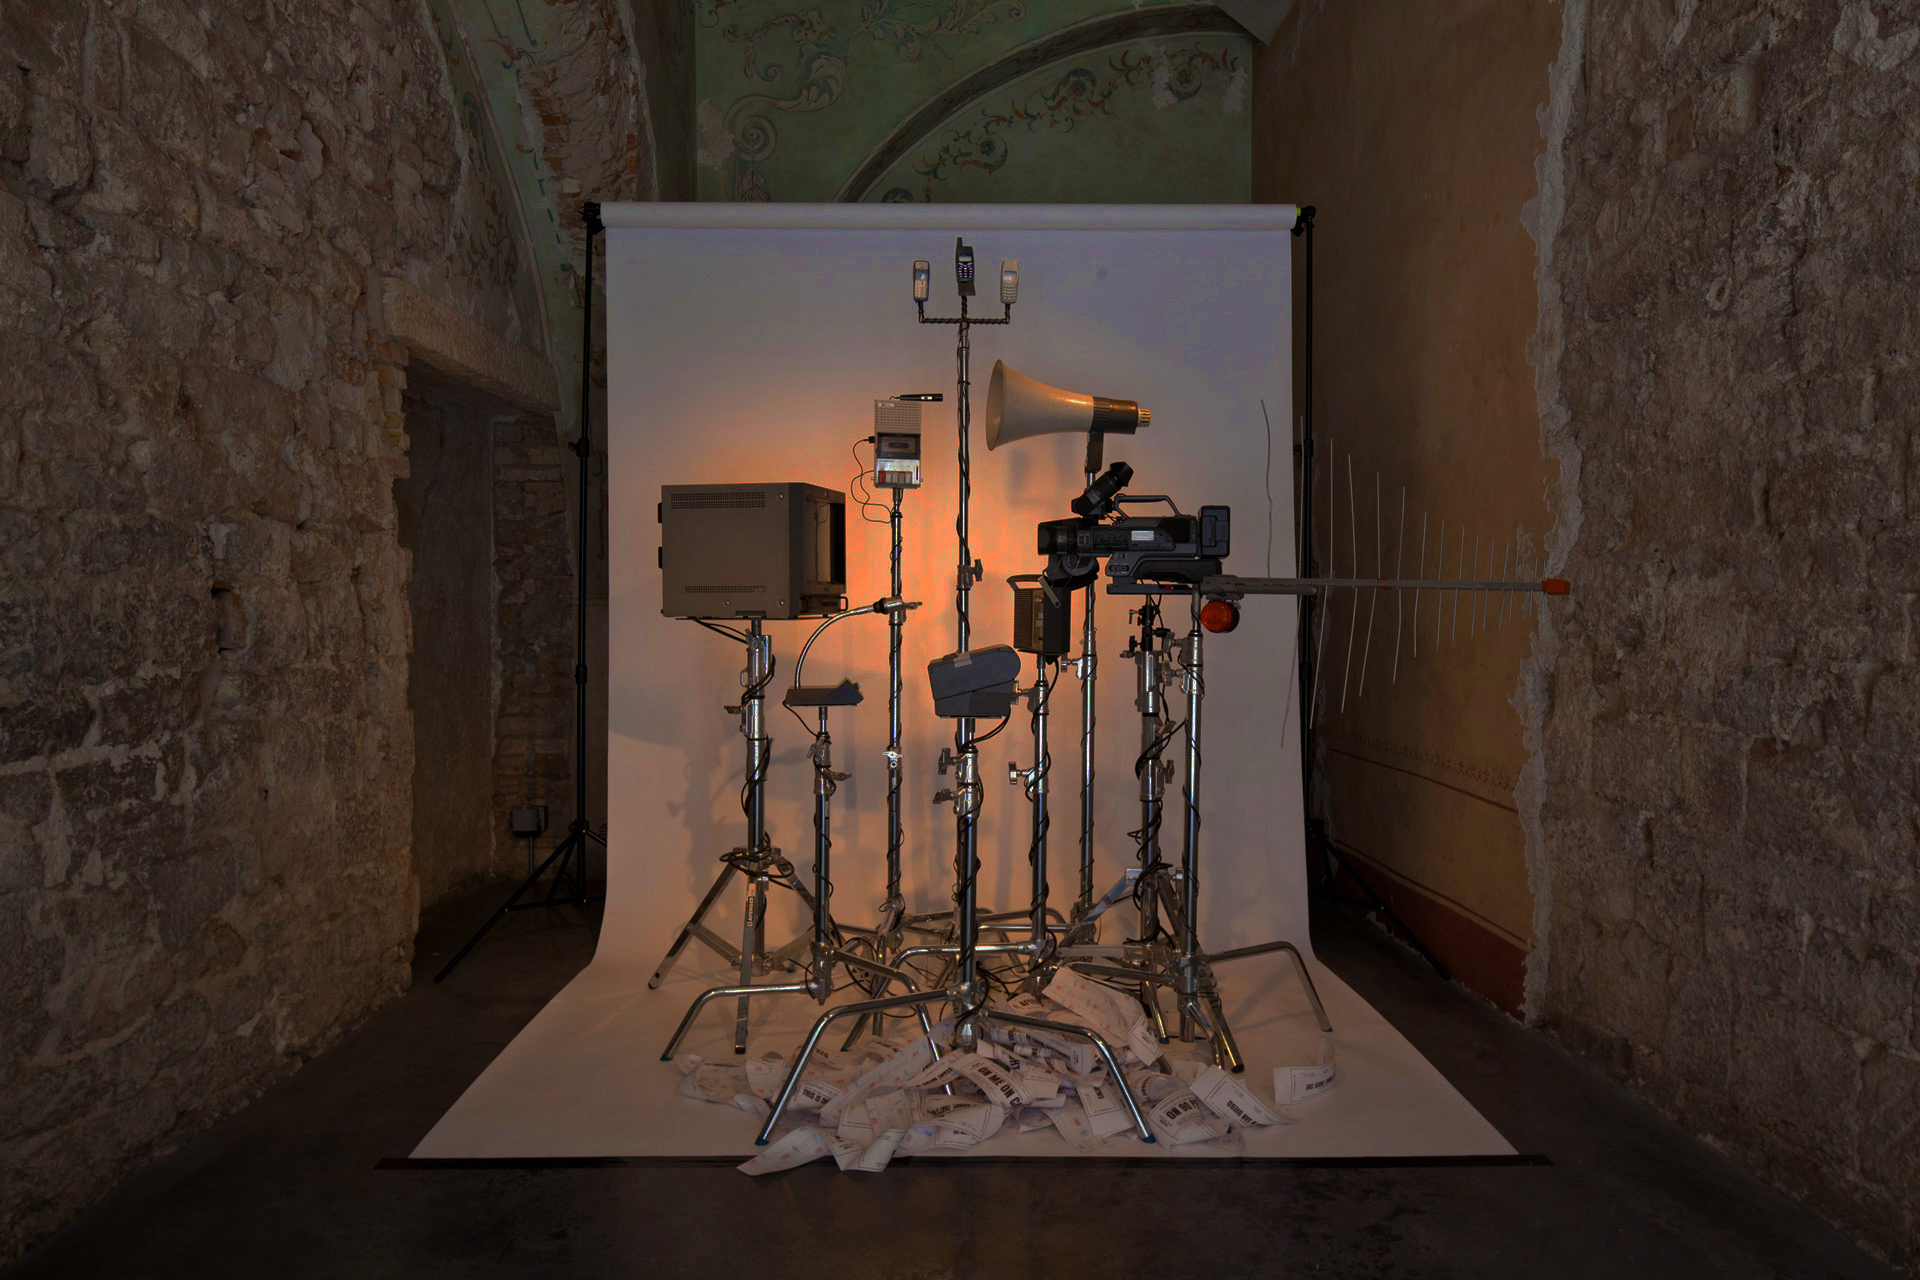
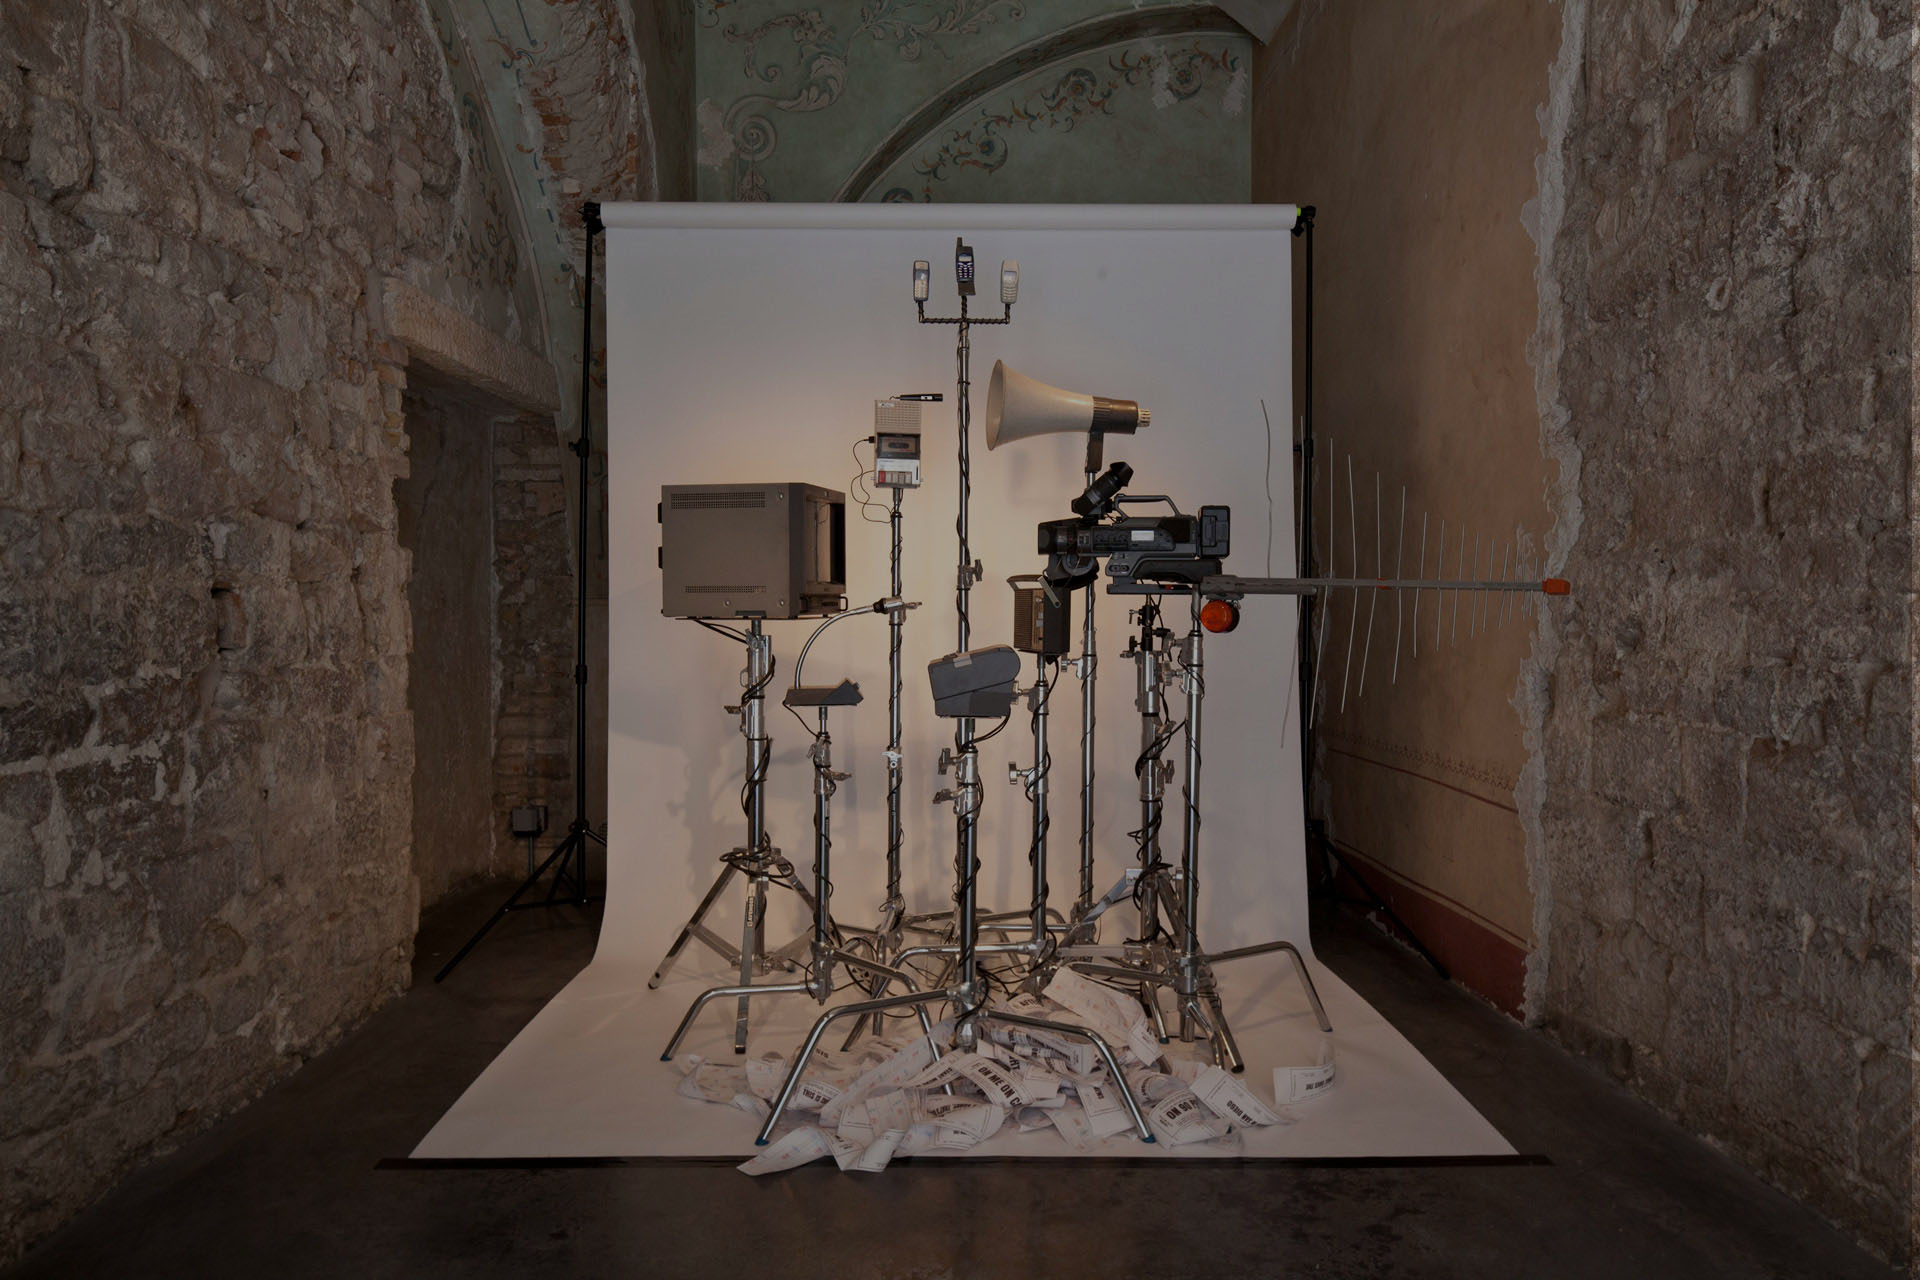
updated images
re-did darkening so there’s less orange artifacts. put our name links
to go to our websites

diff --git a/index.html b/index.html
@@ -84,7 +84,7 @@
       //Each button hardcoded text
       $("#about").click(function (e) {
         e.preventDefault();
-        $("#description_text").html("	Founded by <a href='https://www.google.co.uk/webhp?sourceid=chrome-instant&ion=1&espv=2&ie=UTF-8#q=matthew%20rosier' target='_blank'>Matthew Rosier</a> and <a href='https://www.google.co.uk/webhp?sourceid=chrome-instant&ion=1&espv=2&ie=UTF-8#q=jonathan+chomko' target='_blank'>Jonathan Chomko</a> with backgrounds in architecture and interaction design respectively, the studio explores embodied applications of technology, following a site-specific and user-centred design process.<p> While taking on design projects and exploring ideas through art, the studio is continually looking to develop its practice and theoretical perspectives through workshops, education and collaborations. Our work has been nominated for <a href='https://designmuseum.org/exhibitions/designs-of-the-year-2015' target='_blank'>Design of Year</a> by the London Design Museum, and has been exhibited at the Sydney Opera House, Mobile Museum Hong Kong, the Perugia Journalism Festival, and Nuit Blanche Montreal.")
+        $("#description_text").html("	Founded by <a href='http://matthewrosier.com/' target='_blank'>Matthew Rosier</a> and <a href='http://www.jonathanchomko.com' target='_blank'>Jonathan Chomko</a> with backgrounds in architecture and interaction design respectively, the studio explores embodied applications of technology, following a site-specific and user-centred design process.<p> While taking on design projects and exploring ideas through art, the studio is continually looking to develop its practice and theoretical perspectives through workshops, education and collaborations. Our work has been nominated for <a href='https://designmuseum.org/exhibitions/designs-of-the-year-2015' target='_blank'>Design of Year</a> by the London Design Museum, and has been exhibited at the Sydney Opera House, Mobile Museum Hong Kong, the Perugia Journalism Festival, and Nuit Blanche Montreal.")
         $("#text_frame").css("color","white");
          // $.backstretch(images[0],{fade:750,duration:4000});
          // $('#base').removeClass("opaque");
@@ -129,6 +129,7 @@
         e.preventDefault();
 				$("#description_text").html("In collaboration with a team at Fabrica, we developed a proposal for the <a href='http://design-for-change.org/' target='_blank'>Lille Design for Change</a> commission programme,  re-imagining economically challenged areas of Lille. Working around the themes of New Modes of Consumption, Forgotten Spaces and Universal Access to Public Services, we carried out on-site research and interviews and led workshops, informing our final three proposals that covered themes of street food infrastructure, a playground on a contested border region and a shop-share scheme to revitalise a failing city centre.  <p><a href = 'https://vimeo.com/93493236' target='_blank'>Video</a>").css("color","white");
         $('#base').removeClass().addClass('lillebg');
+
 
          //.addClass('opaque');;.addClass('opaque');;
           // $("#toggle").csss("text-decoration", "line-through");

diff --git a/css/theme.css b/css/theme.css
@@ -23,6 +23,7 @@ body:after{
 	  -o-background-size: cover !important;
 	  background-size: cover !important;
 
+		
 }
 
 .shadowingbg{
@@ -34,6 +35,8 @@ body:after{
 	  -o-background-size: cover !important;
 	  background-size: cover !important;
 
+
+
 }
 
 .storybg{
@@ -43,6 +46,7 @@ body:after{
 	  -moz-background-size: cover !important;
 	  -o-background-size: cover !important;
 	  background-size: cover !important;
+
 
 }
 
